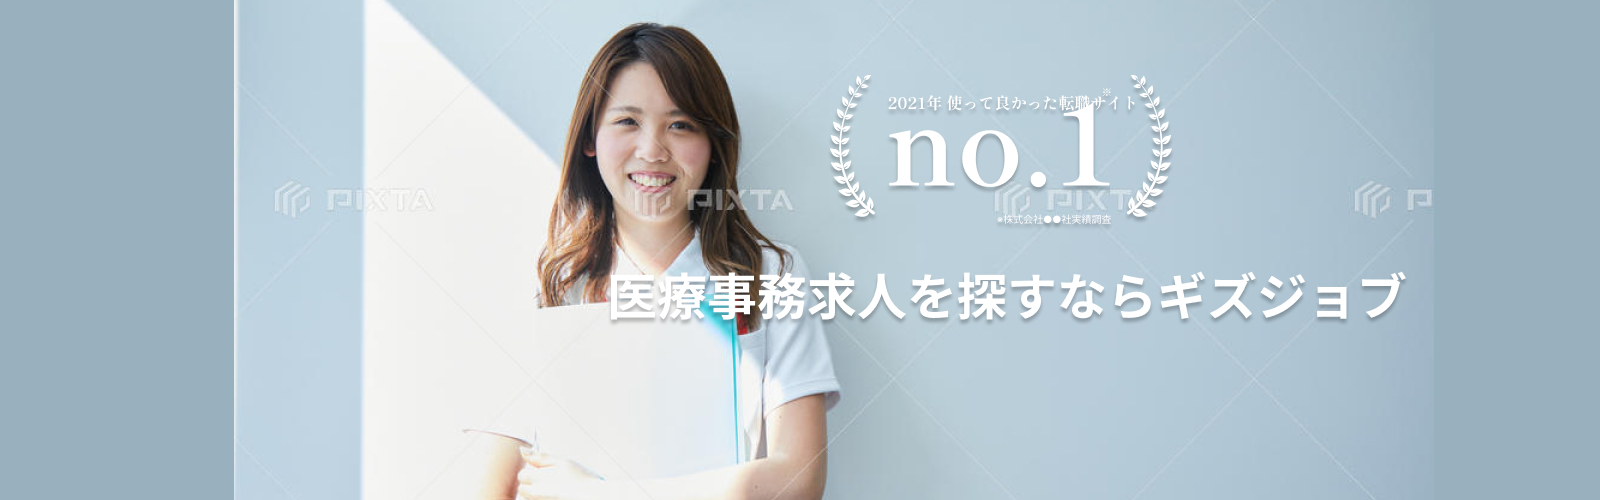
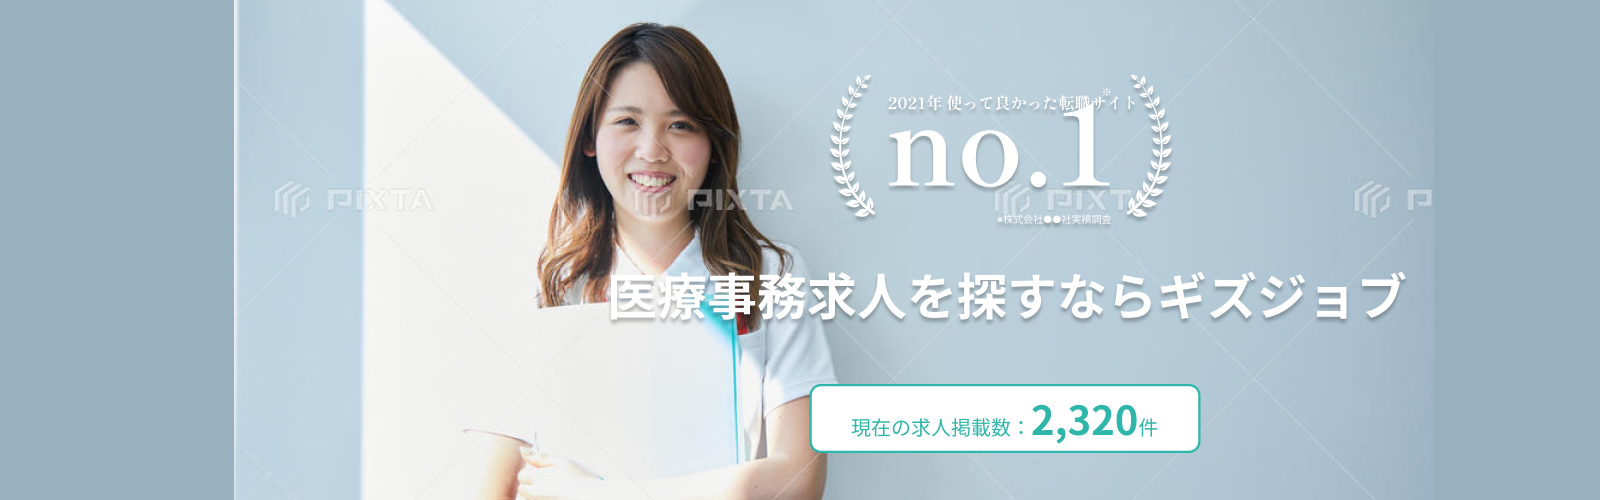
fix: key-visual

Changed region(s): [[0.5, 0.75, 0.75, 0.93]]

diff --git a/src/css/object/project/keyvisual.scss b/src/css/object/project/keyvisual.scss
@@ -2,23 +2,13 @@
 // ページ上部のキービジュアルに関するスタイル
 .p-key-visual {
   background: vm.$key-visual-background;
-  // width: 100%;
-  // height: 500px;
-  // background-image: url(../img/picture/keyvisualpc.jpg);
-  // background-position: center;
-  // background-repeat: no-repeat;
-  // position: relative;
-  // @include vm.sp {
-  //   height: 270px;
-  //   background-image: url(../img/picture/keyvisualsp.jpg);
-  // }
 
   &__inner {
-    background: vm.$key-visual-background;
     width: 100%;
     max-width: 1600px;
     height: 500px;
     background-image: url(../img/picture/keyvisualpc.jpg);
+    background-size: 100% 100%;
     background-position: center;
     background-repeat: no-repeat;
     position: relative;
@@ -37,8 +27,8 @@
     border: solid 2px vm.$key-visual-text;
     border-radius: 8px;
     position: absolute;
-    top: 384px;
-    right: 400px;
+    bottom: 47px;
+    right: 10%;
     @include vm.sp {
       width: 170px;
       font-size: 8px;

diff --git a/src/index.html b/src/index.html
@@ -141,11 +141,7 @@
       </header>
       <main class="l-main">
         <div class="p-key-visual">
-          <div class="p-key-visual__inner l-inner u-relative">
-            <a href="" class="p-key-visual__text">
-              現在の求人掲載数：<span>2,320</span>件
-            </a>
-          </div>
+          <div class="p-key-visual__inner l-inner u-relative"></div>
         </div>
         <div class="p-search u-mt-medium l-inner">
           <div class="p-search__inner">

diff --git a/src/css/layout/main.scss b/src/css/layout/main.scss
@@ -2,9 +2,6 @@
 
 .l-main {
   padding-top: 100px;
-  @include vm.tab {
-    padding-top: 70px;
-  }
   @include vm.sp {
     padding-top: 70px;
   }
